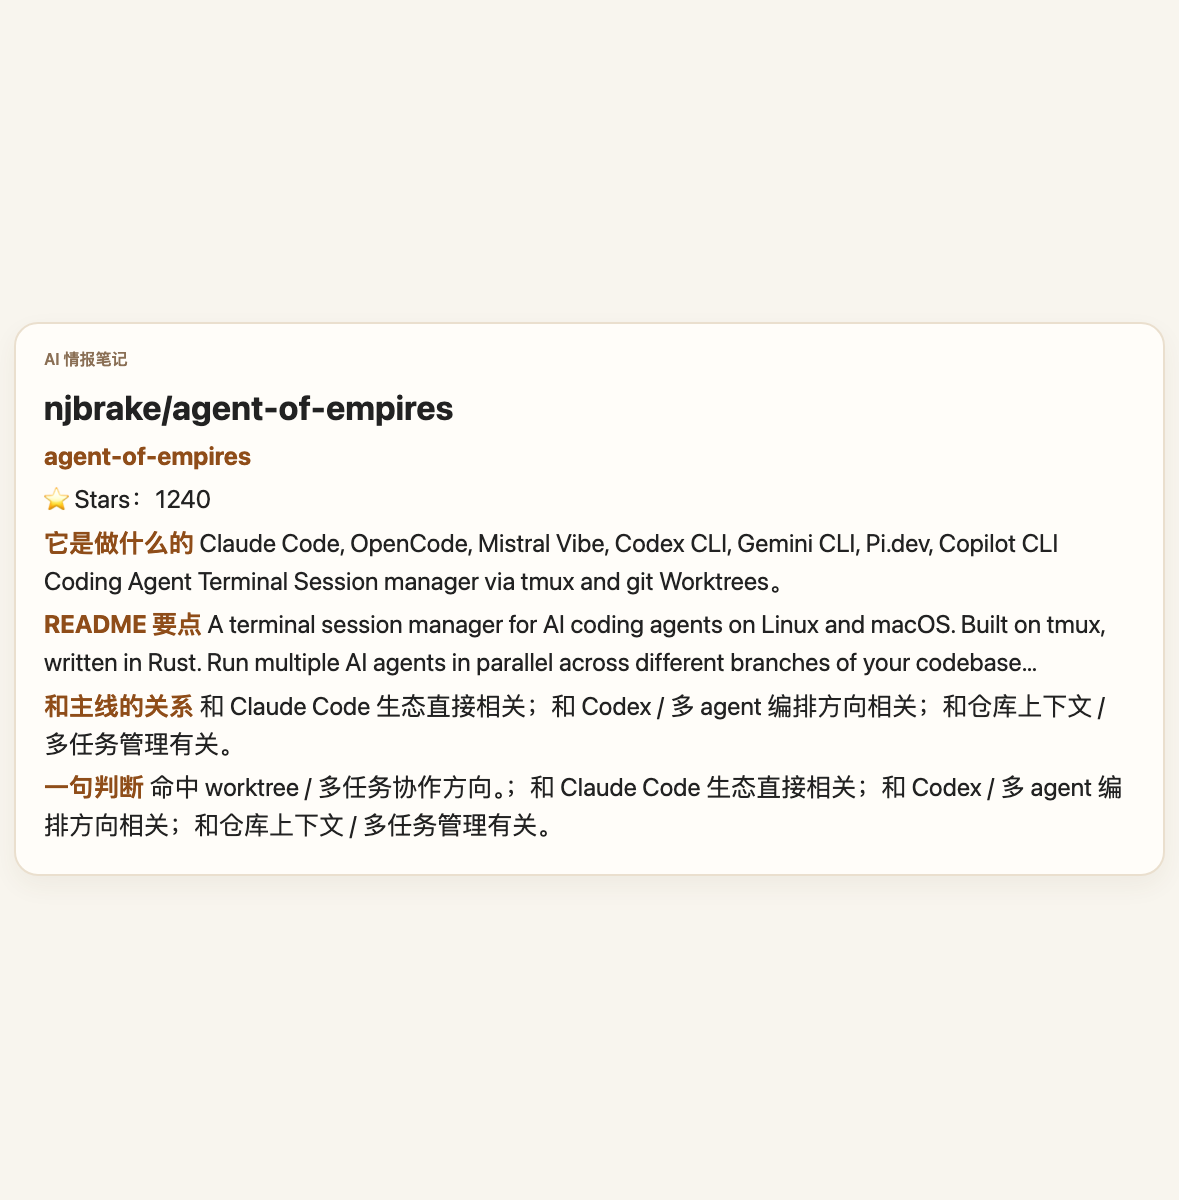
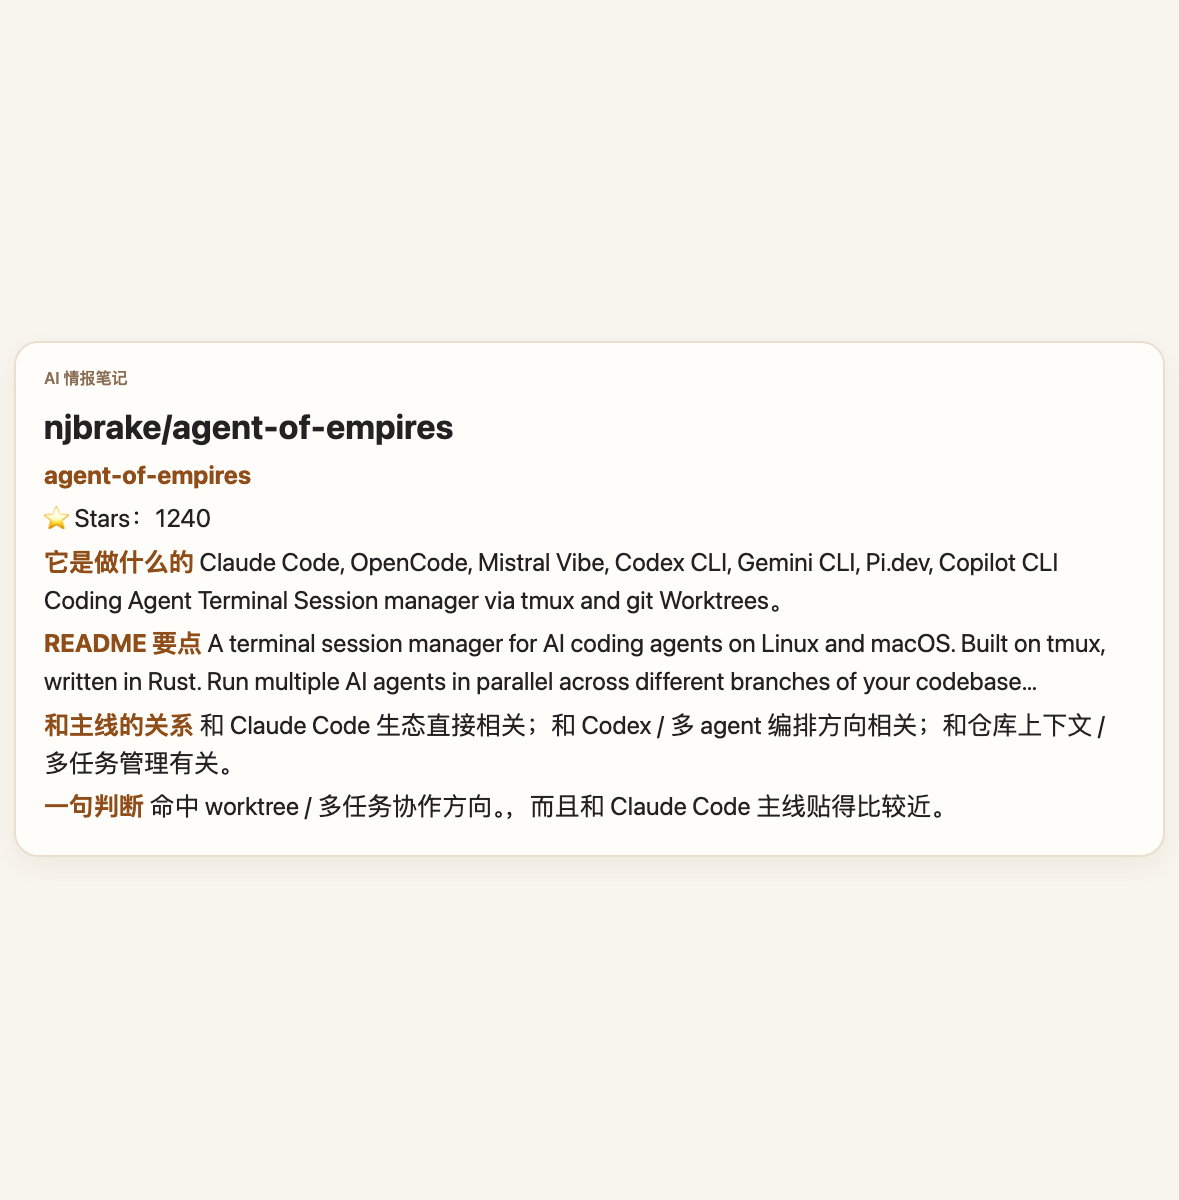
Add Xiaohongshu cards for GitHub AI Daily 2026-03-22

Changed region(s): [[0.0305, 0.2775, 0.9771, 0.74]]

diff --git a/xiaohongshu/github-ai-daily/2026-03-22-square-9/05-agor.md b/xiaohongshu/github-ai-daily/2026-03-22-square-9/05-agor.md
@@ -13,4 +13,4 @@ Think Figma, but for AI coding assistants. Orchestrate Claude Code, Codex, and G
 和 Claude Code 生态直接相关；和 Codex / 多 agent 编排方向相关；和仓库上下文 / 多任务管理有关。
 
 **一句判断**
-命中 worktree / 多任务协作方向。；和 Claude Code 生态直接相关；和 Codex / 多 agent 编排方向相关；和仓库上下文 / 多任务管理有关。
+命中 worktree / 多任务协作方向。，而且和 Claude Code 主线贴得比较近。

diff --git a/xiaohongshu/github-ai-daily/2026-03-22-square-9/06-agent-of-empires.md b/xiaohongshu/github-ai-daily/2026-03-22-square-9/06-agent-of-empires.md
@@ -13,4 +13,4 @@ A terminal session manager for AI coding agents on Linux and macOS. Built on tmu
 和 Claude Code 生态直接相关；和 Codex / 多 agent 编排方向相关；和仓库上下文 / 多任务管理有关。
 
 **一句判断**
-命中 worktree / 多任务协作方向。；和 Claude Code 生态直接相关；和 Codex / 多 agent 编排方向相关；和仓库上下文 / 多任务管理有关。
+命中 worktree / 多任务协作方向。，而且和 Claude Code 主线贴得比较近。

diff --git a/xiaohongshu/github-ai-daily/2026-03-22-square-9/11-gptme.md b/xiaohongshu/github-ai-daily/2026-03-22-square-9/11-gptme.md
@@ -13,4 +13,4 @@ Your agent in your terminal, equipped with local tools: writes code, uses the te
 与 coding agent 工作流相关，但还需要进一步点进仓库确认成熟度。
 
 **一句判断**
-命中终端 coding agent 方向。；与 coding agent 工作流相关，但还需要进一步点进仓库确认成熟度。
+命中终端 coding agent 方向。

diff --git a/xiaohongshu/github-ai-daily/2026-03-22-square-9/14-claude-code-agents.md b/xiaohongshu/github-ai-daily/2026-03-22-square-9/14-claude-code-agents.md
@@ -13,4 +13,4 @@ Complete E2E Development Workflow For Solo Dev Startups Building with Next.js + 
 和 Claude Code 生态直接相关；属于多 agent 编排层。
 
 **一句判断**
-命中 subagent 方向。；和 Claude Code 生态直接相关；属于多 agent 编排层。
+命中 subagent 方向。，而且和 Claude Code 主线贴得比较近。

diff --git a/xiaohongshu/github-ai-daily/2026-03-22-square-9/09-supacode.md b/xiaohongshu/github-ai-daily/2026-03-22-square-9/09-supacode.md
@@ -13,4 +13,4 @@ Native terminal coding agents command center. Technical Stack The Composable Arc
 和仓库上下文 / 多任务管理有关。
 
 **一句判断**
-命中 worktree / 多任务协作方向。；和仓库上下文 / 多任务管理有关。
+命中 worktree / 多任务协作方向。，更偏仓库上下文和多任务管理。

diff --git a/xiaohongshu/github-ai-daily/2026-03-22-square-9/08-gitclaw.md b/xiaohongshu/github-ai-daily/2026-03-22-square-9/08-gitclaw.md
@@ -13,4 +13,4 @@ Your agent lives inside a git repo — identity, rules, memory, tools, and skill
 和仓库上下文 / 多任务管理有关。
 
 **一句判断**
-命中 repo memory / 上下文方向。；和仓库上下文 / 多任务管理有关。
+命中 repo memory / 上下文方向。，更偏仓库上下文和多任务管理。

diff --git a/xiaohongshu/github-ai-daily/2026-03-22-square-9/12-RPG-ZeroRepo.md b/xiaohongshu/github-ai-daily/2026-03-22-square-9/12-RPG-ZeroRepo.md
@@ -13,4 +13,4 @@ RPG-ZeroRepo RPG (Repository Planning Graph) is a hierarchical graph representat
 和仓库上下文 / 多任务管理有关。
 
 **一句判断**
-命中 repo memory / 上下文方向。；和仓库上下文 / 多任务管理有关。
+命中 repo memory / 上下文方向。，更偏仓库上下文和多任务管理。

diff --git a/xiaohongshu/github-ai-daily/2026-03-22-square-9/07-claudish.md b/xiaohongshu/github-ai-daily/2026-03-22-square-9/07-claudish.md
@@ -13,4 +13,4 @@ Claude Code. Any Model. Use your existing AI subscriptions with Claude Code. Wor
 和 Claude Code 生态直接相关。
 
 **一句判断**
-命中 coding agent 主查询。；和 Claude Code 生态直接相关。
+命中 coding agent 主查询。，而且和 Claude Code 主线贴得比较近。

diff --git a/xiaohongshu/github-ai-daily/2026-03-22-square-9/10-codecompanion.nvim.md b/xiaohongshu/github-ai-daily/2026-03-22-square-9/10-codecompanion.nvim.md
@@ -13,4 +13,4 @@
 与 coding agent 工作流相关，但还需要进一步点进仓库确认成熟度。
 
 **一句判断**
-命中协议 / 工具接入方向。；与 coding agent 工作流相关，但还需要进一步点进仓库确认成熟度。
+命中协议 / 工具接入方向。

diff --git a/xiaohongshu/github-ai-daily/2026-03-22-square-9/13-vscode-acp.md b/xiaohongshu/github-ai-daily/2026-03-22-square-9/13-vscode-acp.md
@@ -13,4 +13,4 @@ ACP Client for VS Code A Visual Studio Code extension that provides a client for
 属于协议 / 工具接入层。
 
 **一句判断**
-命中协议 / 工具接入方向。；属于协议 / 工具接入层。
+命中协议 / 工具接入方向。
